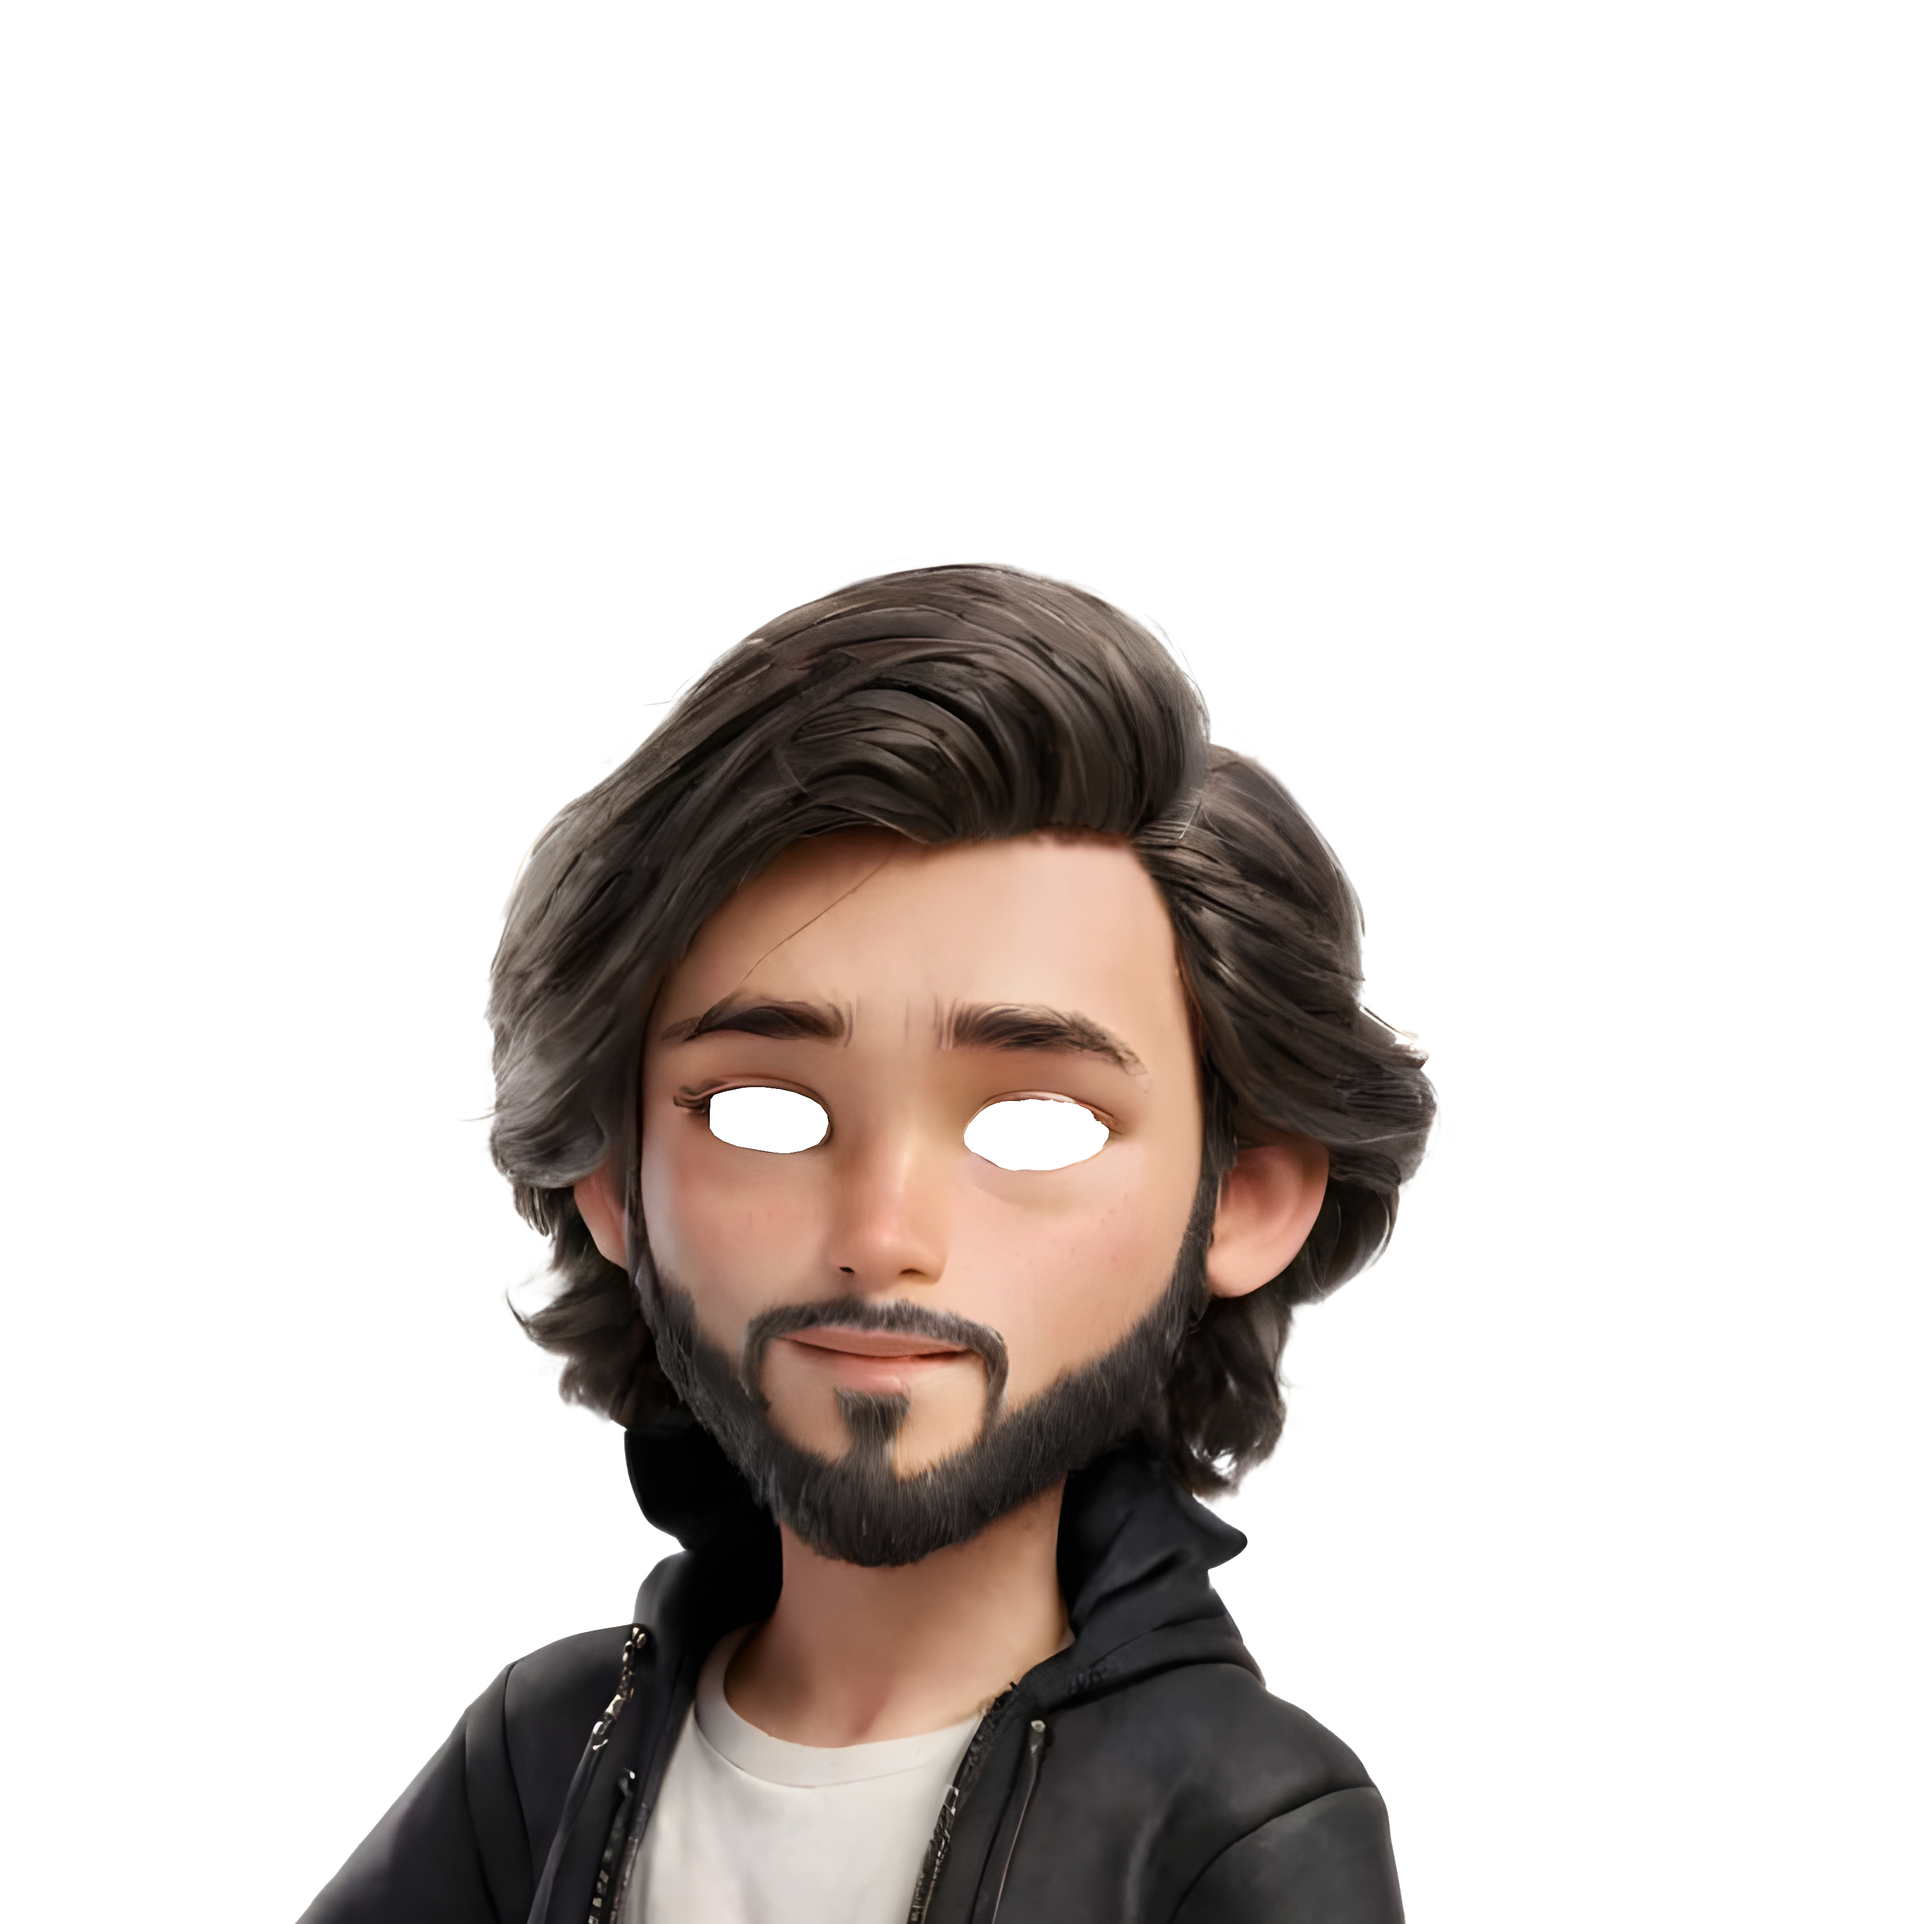
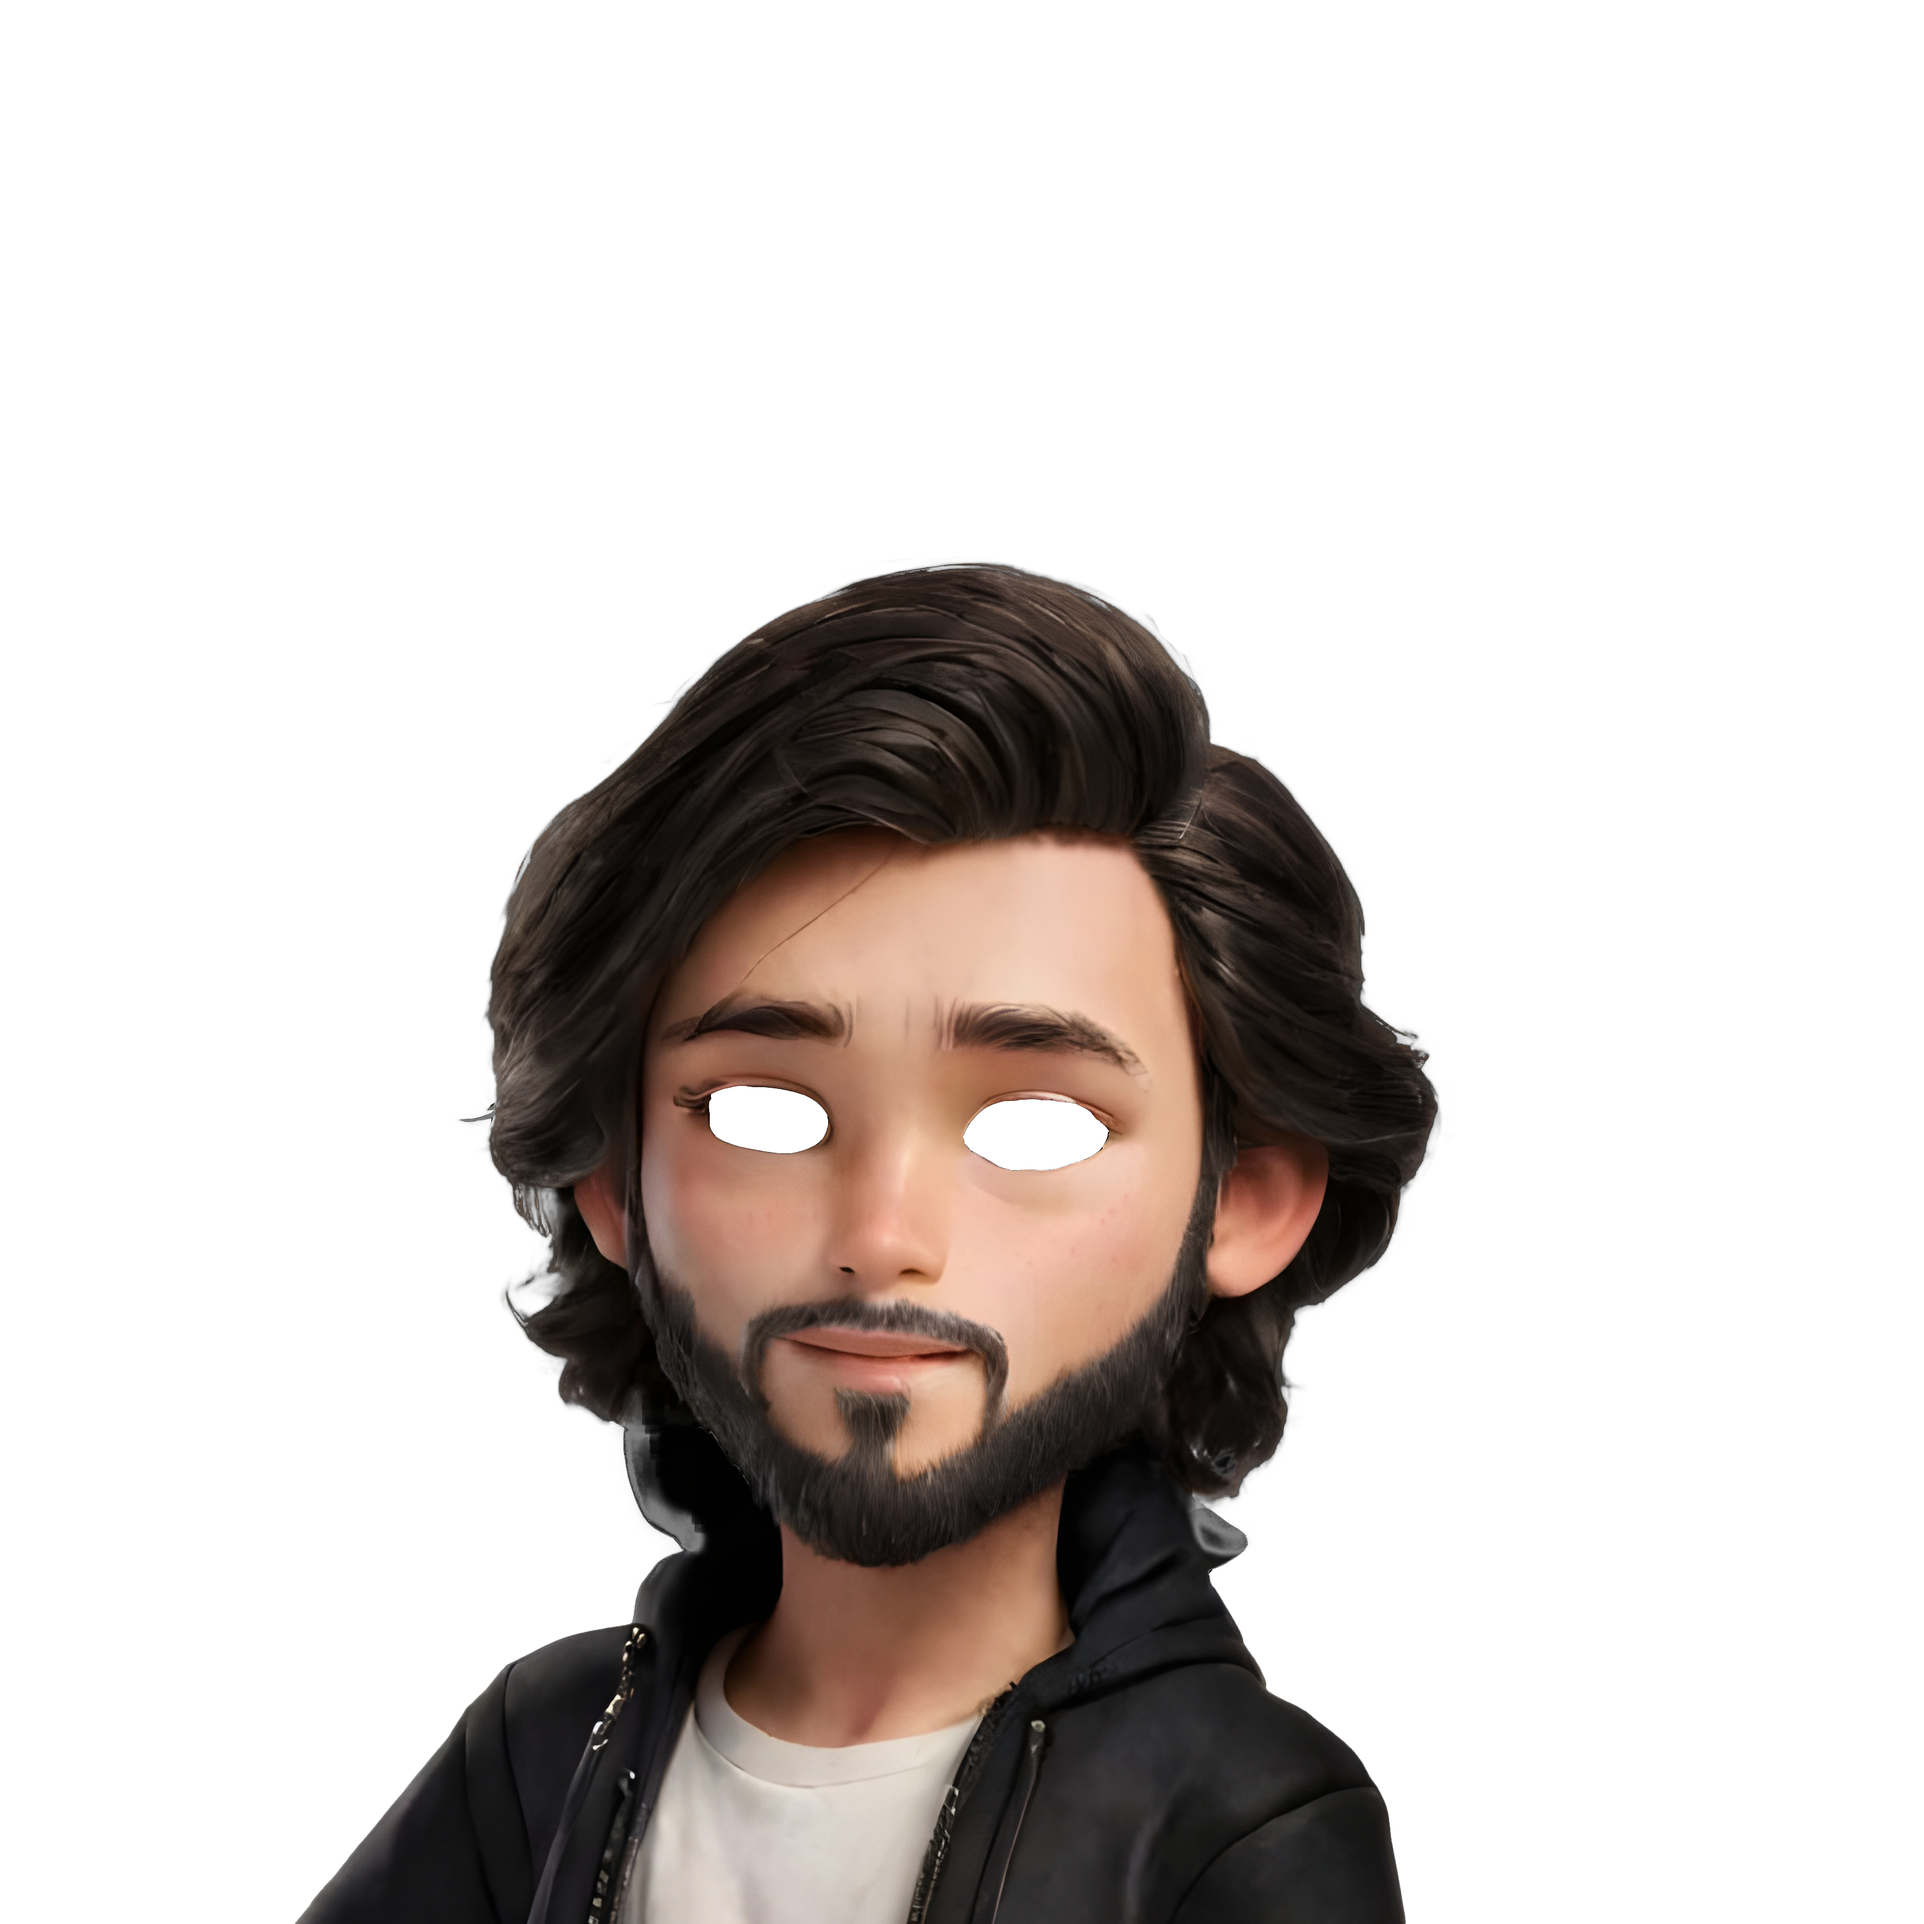
new update2

Changed region(s): [[0.2497, 0.2808, 0.7491, 1.0], [0.1561, 0.8424, 0.3121, 1.0]]

diff --git a/css/style.css b/css/style.css
@@ -930,7 +930,7 @@ span{
     backdrop-filter: blur(10px);
     display: flex;
     flex-direction: column;
-    justify-content: flex-end;
+    justify-content: flex-end; 
     align-items: center;
     height: 90vh;
     /* padding: 10rem 9%; */
@@ -939,26 +939,25 @@ span{
 .footer-text,
 .footer-iconTop{
     position: relative;
-
 }
 .footer-quote{
- 
     text-align: center;
     width: 100%;
     font-size: 2rem;
     height: fit-content;
-
     display: flex;
     flex-direction: column;
     align-items: center;
     justify-content: center;
     gap: 50px;
-    
+    margin-bottom: 70px;
 }
+
 .coding-screen{
     width: 200px;
     opacity: 0.4;
 }
+
 .quote-wrapper{
     display: flex;
     gap: 20px;
@@ -968,11 +967,12 @@ span{
     color: gray;
     font-family: fira code;
     text-transform: uppercase;
-
 }
+
 .shine{
     animation: shine 1.5s alternate-reverse infinite;
 }
+
 @keyframes shine {
     0%{
         color: white;
@@ -993,8 +993,8 @@ span{
     display: flex;
     justify-content: space-between;
     align-items: center;
-   background-color: black;
-   padding: 20px 40px;
+    background-color: black;
+    padding: 20px 40px;
 }
 .education,
 .skills{
@@ -1037,7 +1037,7 @@ span{
     transition: .5s;
 }
 .footer-avatar-container{
-    width: 500px;
+    width: 300px;
     /* background-color: red; */
     margin-top: 20px;
     position: relative;
@@ -1054,13 +1054,14 @@ span{
 .footer-avatar-face{
     position: absolute;
     width: 100%;
-    height: 82%;
+    height: 100%;
     z-index: 1;
     display: flex;
     align-items: center;
     justify-content: center;
     gap: 20px;
-    padding-right:32px;
+    padding-left:20px;
+    padding-bottom: 52px;
 }
 .footer-avatar-eye{
     width: 50px;
@@ -1070,8 +1071,8 @@ span{
     display: flex;
     align-items: center;
     justify-content: center;
-    
 }
+
 .footer-pupil{
     width: 20px;
     height: 20px;
@@ -1082,12 +1083,13 @@ span{
 }
 
 .footer-right-eye{
-    /* box-shadow: -10px -15px 5px rgba(0, 0, 0, 0.349) inset; */
+    box-shadow: 15px 15px 8px rgba(0, 0, 0, 0.233) inset,
+    5px 5px 10px rgba(41, 33, 33, 0.644) inset;
+    
     position: relative;
 }
 .footer-left-eye{
-    /* box-shadow: 15px 15px 5px rgba(0, 0, 0, 0.233) inset,
-    10px 10px 5px rgba(41, 33, 33, 0.644) inset; */
+    box-shadow: -15px -10px 10px rgba(0, 0, 0, 0.349) inset;
     position: relative;
     margin-bottom: 10px;
 
@@ -1374,5 +1376,28 @@ section:nth-child(odd) .animate.scroll{
 @keyframes showRight{
     100%{
         width:0;
+    }
+}
+
+
+/* height media query */
+
+@media(max-height:740px){
+
+    .footer-background,.footer-foreground{
+        height: 100vh;
+    }
+}
+@media(max-height:679px){
+
+    .footer-background,.footer-foreground{
+        height: 110vh;
+    }
+}
+
+@media(max-height:568px){
+
+    .footer-background,.footer-foreground{
+        height: 130vh;
     }
 }

diff --git a/index.html b/index.html
@@ -374,7 +374,7 @@
             <div class="quote-wrapper">"<p class="shine">Learn,</p> <p class="shine">lead,</p> <p>let</p> <p class="shine">success</p> <p>follow.</p>"</div>
         </div>
         <div class="footer-avatar-container">
-            <img src="images/no eye.png" alt="animation-head" class="footer-avatar-img" />
+            <img src="images/no eye3png.png" alt="animation-head" class="footer-avatar-img" />
             <div class="footer-avatar-face">
               <div class="footer-avatar-eye footer-left-eye">
                 <div class="footer-pupil"></div>
